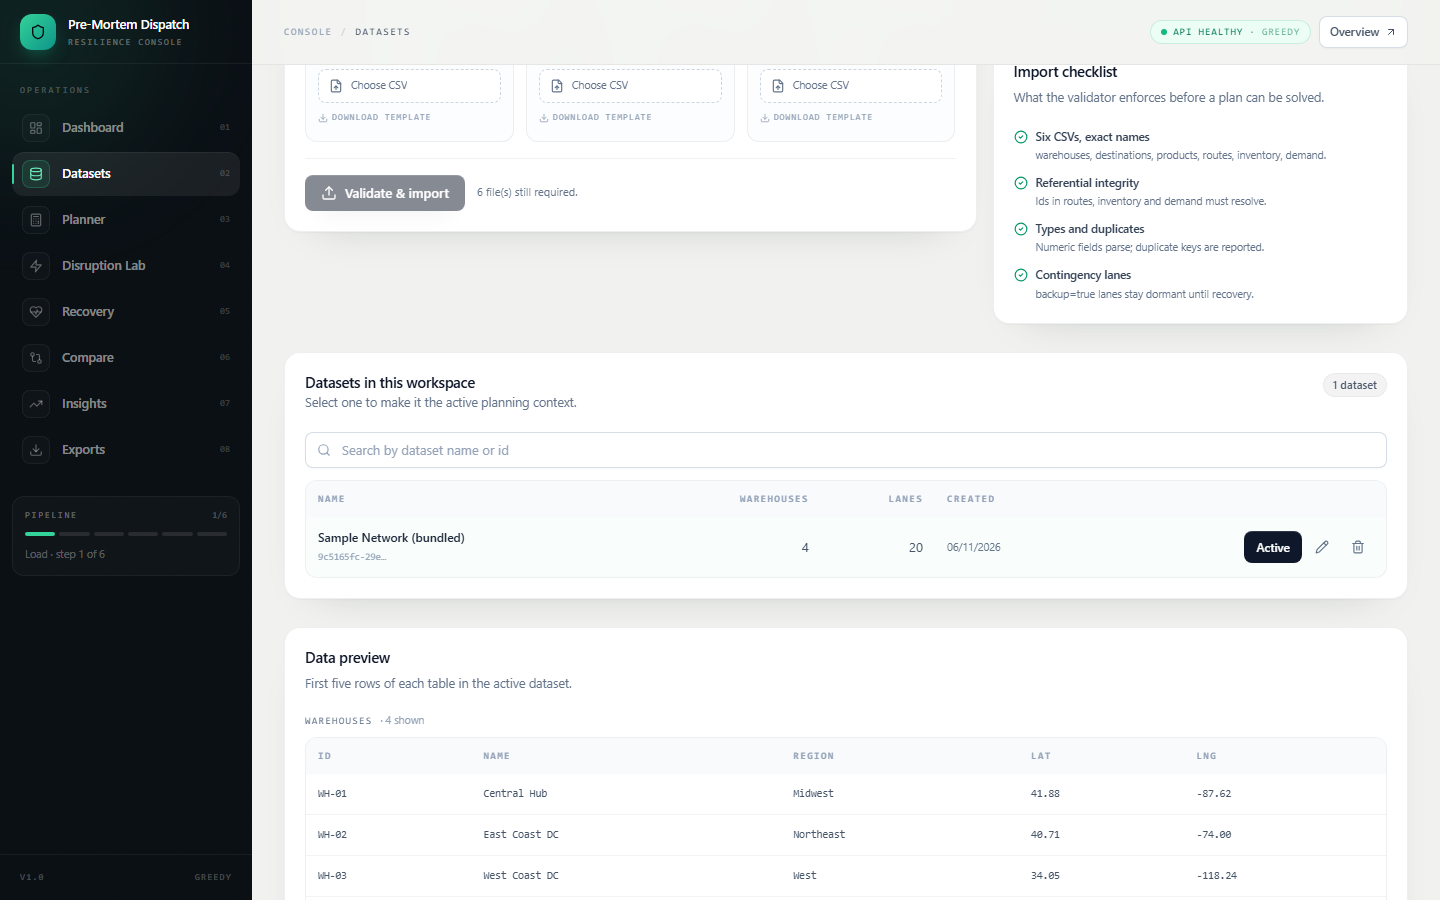
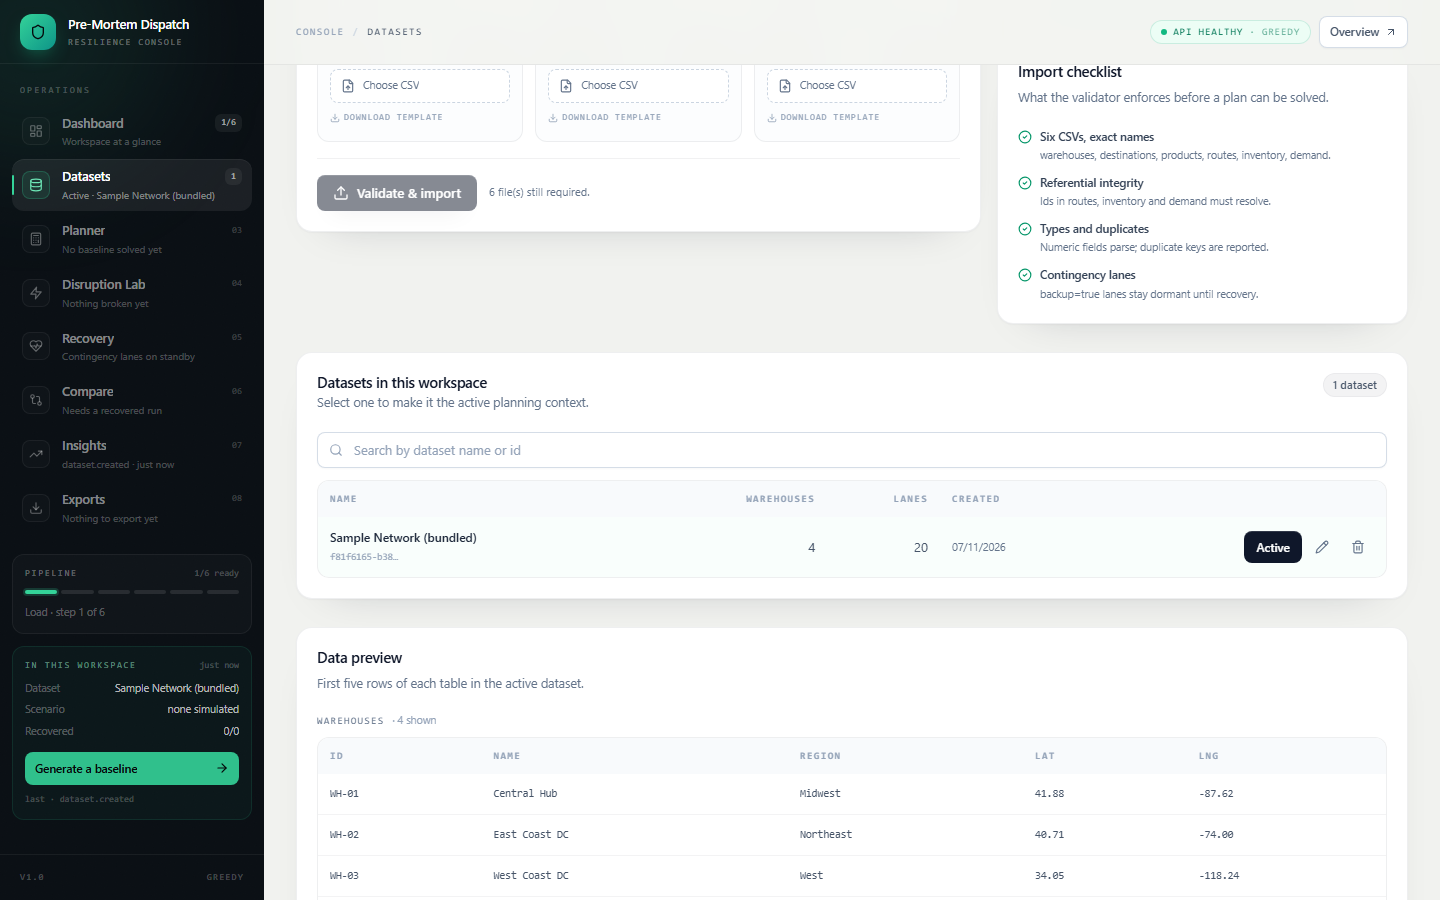
Docs: capture the live console navigation
Document the workspace-aware menu and regenerate the desktop and mobile screenshots, including dedicated rail and drawer views.

diff --git a/README.md b/README.md
@@ -72,6 +72,13 @@ real computed figures. Every CTA routes into the console.
 
 The console is built for repeated use, not for one screenshot.
 
+- **A menu that reads the workspace.** The rail stays fixed while the page scrolls, and every
+  destination carries a live counter plus a context line — the active dataset, the latest
+  baseline's fulfilment and solver, how many runs recovered, the most recent audit event. The
+  pipeline bar reports real completion (a stored dataset, a solved baseline, a recovered run),
+  not just the page you are on, and a next-step action follows the state of the work. On a phone
+  the same menu opens as a focus-trapped drawer from the pinned header, with the pipeline strip
+  still visible above the content.
 - **No native dialogs.** Renaming or deleting a dataset, plan or scenario opens an accessible
   modal — focus trapped, `Escape` or a backdrop click closes it, focus returns to the trigger.
   On a phone the same sheet docks to the bottom edge.
@@ -91,10 +98,12 @@ The console is built for repeated use, not for one screenshot.
 
 | | |
 |---|---|
-| ![Workspace datasets](docs/screenshots/datasets.png) | ![Rename dialog](docs/screenshots/dataset-dialog.png) |
-| **Datasets** — search, rename and delete in one list | **Modal rename** — focus trapped, `Escape` closes |
-| ![Scenario picker](docs/screenshots/scenario-picker.png) | ![Dialog on a phone](docs/screenshots/dataset-dialog-mobile.png) |
-| **Scenario picker** — searchable and keyboard-driven | **Mobile** — the same dialog docks to the bottom |
+| ![Console menu](docs/screenshots/console-menu.png) | ![Workspace datasets](docs/screenshots/datasets.png) |
+| **Fixed rail** — live counters, pipeline and the next step | **Datasets** — search, rename and delete in one list |
+| ![Rename dialog](docs/screenshots/dataset-dialog.png) | ![Scenario picker](docs/screenshots/scenario-picker.png) |
+| **Modal rename** — focus trapped, `Escape` closes | **Scenario picker** — searchable and keyboard-driven |
+| ![Dialog on a phone](docs/screenshots/dataset-dialog-mobile.png) | ![Menu on a phone](docs/screenshots/menu-mobile.png) |
+| **Mobile dialog** — docks to the bottom edge | **Mobile menu** — the same live rail, as a drawer |
 
 Beyond the six steps, the console manages the workspace: rename or delete datasets (a delete
 cascades through their plans and scenarios in one transaction), delete an unreferenced plan, and
@@ -165,7 +174,7 @@ python -m pytest apps/api/tests -q          # 95 passed
 cd apps/web && npm run build
 
 # Browser E2E — starts the API and Vite itself, on a separate e2e database
-cd apps/web && npx playwright test          # 15 passed
+cd apps/web && npx playwright test          # 17 passed
 ```
 
 `playwright.config.ts` auto-starts both processes and reuses already-running servers locally, so
@@ -199,6 +208,10 @@ The suite asserts invariants, not just "it returned 200":
 - plan deletion is refused while a scenario still references the plan
 - rename and delete run through the in-app dialogs, and dataset search narrows the workspace list
 - the first tab stop is the skip link, and `Escape` dismisses a destructive dialog
+- the rail reflects stored state (active dataset, baseline fulfilment, recovered runs), its
+  next-step link follows the workspace, and it stays put when the document scrolls
+- the phone menu opens as a drawer, returns focus on `Escape`, navigates and closes, and the
+  pinned header survives scrolling without horizontal overflow
 - the activity trail records mutations newest-first with structured detail
 - insights aggregate stored KPIs into a chronological trend, disruption mix and recovery economics
 - a severity sweep is monotonic for shortages, preserves volume for delays, and persists nothing
